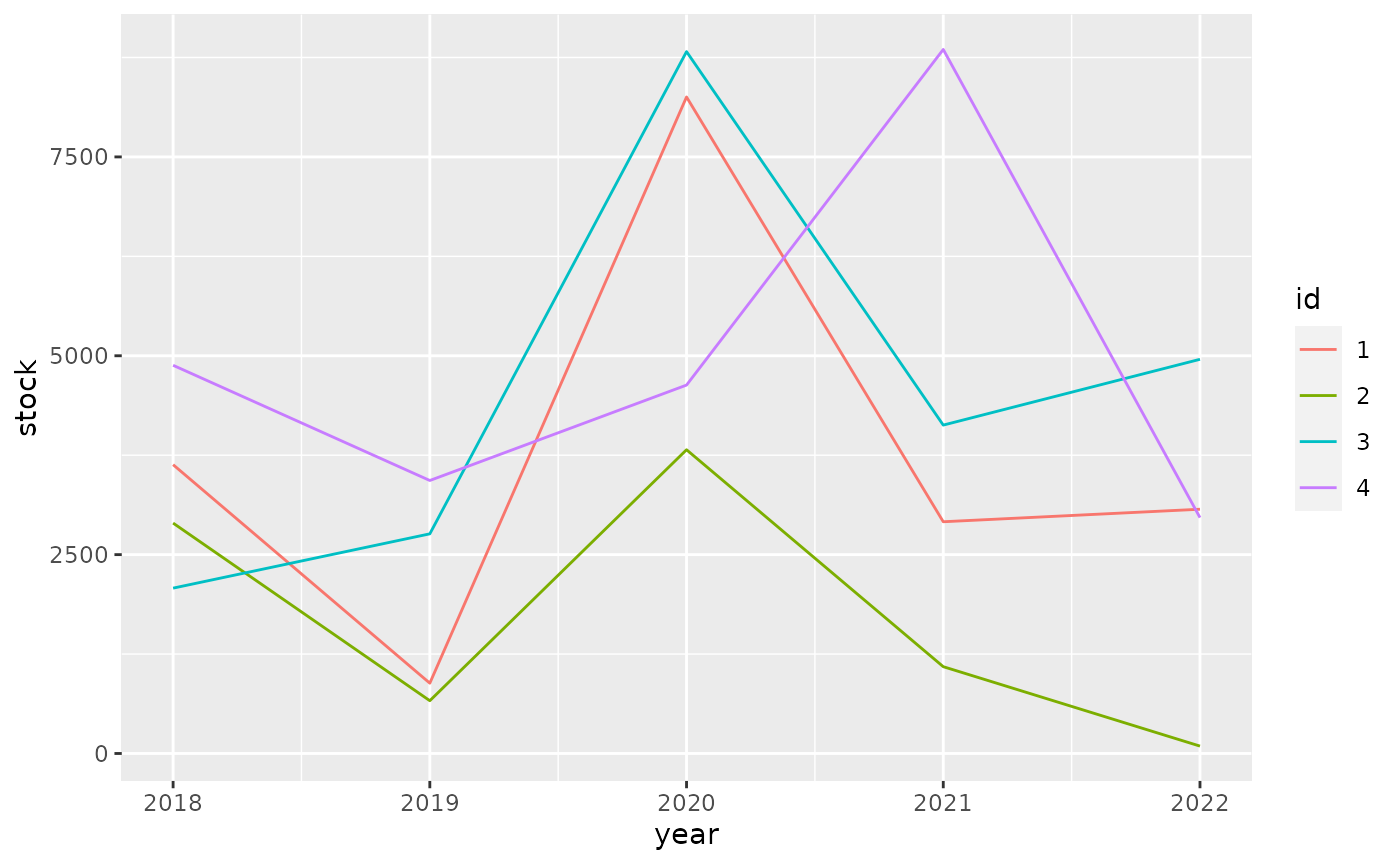
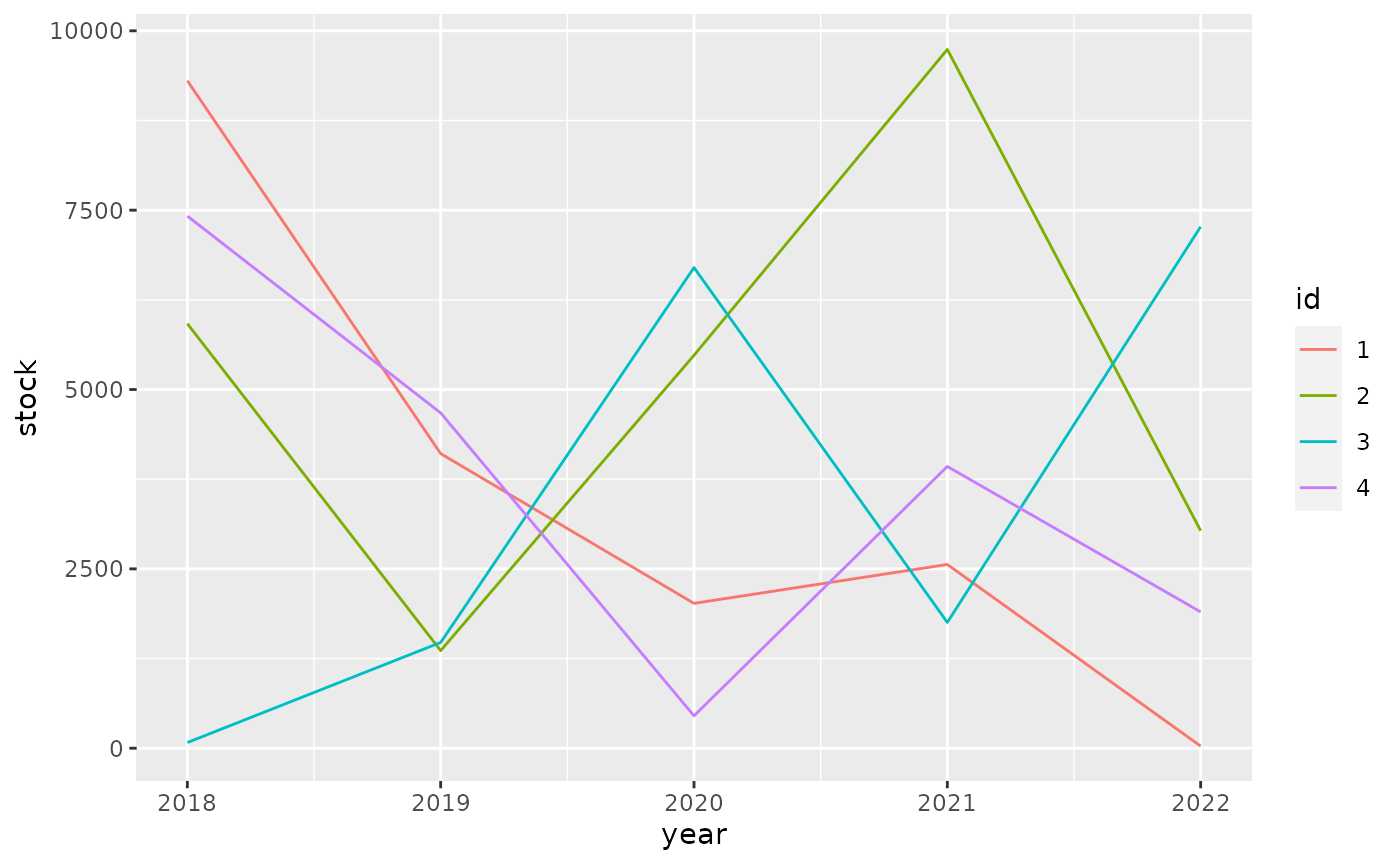
Built site for tibble: 3.0.6.9001@7add45a

diff --git a/dev/articles/formats.html b/dev/articles/formats.html
@@ -221,10 +221,10 @@
 <span class="co">#&gt; # A tibble: 4 x 6</span>
 <span class="co">#&gt;   id       `2018`    `2019`    `2020`    `2021`    `2022`</span>
 <span class="co">#&gt;   &lt;fct&gt; &lt;dbl:fmt&gt; &lt;dbl:fmt&gt; &lt;dbl:fmt&gt; &lt;dbl:fmt&gt; &lt;dbl:fmt&gt;</span>
-<span class="co">#&gt; 1 1     $3,630.84   $883.97 $8,253.53 $2,913.39 $3,070.77</span>
-<span class="co">#&gt; 2 2     $2,896.63   $663.56 $3,818.42 $1,091.33    $92.88</span>
-<span class="co">#&gt; 3 3     $2,078.70 $2,761.41 $8,823.67 $4,128.44 $4,955.50</span>
-<span class="co">#&gt; 4 4     $4,880.32 $3,431.91 $4,631.54 $8,851.06 $2,965.41</span></code></pre></div>
+<span class="co">#&gt; 1 1     $9,304.08 $4,106.59 $2,019.11 $2,561.26    $29.58</span>
+<span class="co">#&gt; 2 2     $5,918.37 $1,360.61 $5,476.98 $9,740.24 $3,031.63</span>
+<span class="co">#&gt; 3 3        $79.08 $1,474.32 $6,699.59 $1,753.73 $7,269.59</span>
+<span class="co">#&gt; 4 4     $7,417.76 $4,673.71   $451.58 $3,927.20 $1,899.89</span></code></pre></div>
 <p>For ggplot2 we need to do <a href="https://github.com/tidyverse/ggplot2/pull/4065" class="external-link">some work</a> to show apply the formatting to the scales.</p>
 <div class="sourceCode" id="cb6"><pre class="downlit sourceCode r">
 <code class="sourceCode R"><span class="kw"><a href="https://rdrr.io/r/base/library.html" class="external-link">library</a></span><span class="op">(</span><span class="va"><a href="https://ggplot2.tidyverse.org" class="external-link">ggplot2</a></span><span class="op">)</span>
@@ -235,10 +235,10 @@
   <span class="fu"><a href="https://ggplot2.tidyverse.org/reference/geom_path.html" class="external-link">geom_line</a></span><span class="op">(</span><span class="op">)</span></code></pre></div>
 <p><img src="formats_files/figure-html/unnamed-chunk-7-1.png" width="700"></p>
 <p>It pays off to specify formatting very early in the process. The diagram below shows the principal stages of data analysis and exploration from “R for data science”.</p>
-<div id="htmlwidget-08a29a80a36423afc7a3" style="width:700px;height:432.632880098888px;" class="DiagrammeR html-widget"></div>
-<script type="application/json" data-for="htmlwidget-08a29a80a36423afc7a3">{"x":{"diagram":"graph TD\n  Import --> Tidy\n  Tidy --> Transform\n  Transform --> Visualize\n  Visualize --> Communicate\n  Visualize --> Model\n  Model -.-> Transform"},"evals":[],"jsHooks":[]}</script><p>The subsequent diagram adds data formats, communication options, and explicit data formatting. The original r4ds transitions are highlighted in bold. There are two principal options where to apply formatting for results: right before communicating them, or right after importing.</p>
-<div id="htmlwidget-506416e5296a19b2f288" style="width:700px;height:432.632880098888px;" class="DiagrammeR html-widget"></div>
-<script type="application/json" data-for="htmlwidget-506416e5296a19b2f288">{"x":{"diagram":"graph TD\n  .csv --> Import\n  API --> Import\n  DBI --> Import\n  dbplyr --> Import\n  Import -.-> Format[Format for analysis]\n  Format -.-> Tidy\n\n  subgraph r4ds\n  Import ==> Tidy\n  Tidy ==> Transform\n  Transform ==> Visualize\n  Visualize ==> Model\n  Model -.-> Transform\n  Visualize ==> Communicate\n  end\n\n  Visualize -.-> FormatComm[Format for communication]\n  FormatComm -.-> Communicate\n\n  FormatComm -- Apply formatting early --> Format\n\n  dbplyr -.-> Tidy\n  dbplyr -.-> Transform\n  dbplyr -.-> Visualize\n\n  Communicate --> gt\n  Communicate --> ggplot2\n  Communicate --> DT\n  Communicate --> plotly"},"evals":[],"jsHooks":[]}</script><p>Applying formatting early in the process gives the added benefit of showing the data in a useful format during the “Tidy”, “Transform”, and “Visualize” stages. For this to be useful, we need to ensure that the formatting options applied early:</p>
+<div id="htmlwidget-3b01a6db6a8cfb7498d4" style="width:700px;height:432.632880098888px;" class="DiagrammeR html-widget"></div>
+<script type="application/json" data-for="htmlwidget-3b01a6db6a8cfb7498d4">{"x":{"diagram":"graph TD\n  Import --> Tidy\n  Tidy --> Transform\n  Transform --> Visualize\n  Visualize --> Communicate\n  Visualize --> Model\n  Model -.-> Transform"},"evals":[],"jsHooks":[]}</script><p>The subsequent diagram adds data formats, communication options, and explicit data formatting. The original r4ds transitions are highlighted in bold. There are two principal options where to apply formatting for results: right before communicating them, or right after importing.</p>
+<div id="htmlwidget-b5639800fd75e163fc80" style="width:700px;height:432.632880098888px;" class="DiagrammeR html-widget"></div>
+<script type="application/json" data-for="htmlwidget-b5639800fd75e163fc80">{"x":{"diagram":"graph TD\n  .csv --> Import\n  API --> Import\n  DBI --> Import\n  dbplyr --> Import\n  Import -.-> Format[Format for analysis]\n  Format -.-> Tidy\n\n  subgraph r4ds\n  Import ==> Tidy\n  Tidy ==> Transform\n  Transform ==> Visualize\n  Visualize ==> Model\n  Model -.-> Transform\n  Visualize ==> Communicate\n  end\n\n  Visualize -.-> FormatComm[Format for communication]\n  FormatComm -.-> Communicate\n\n  FormatComm -- Apply formatting early --> Format\n\n  dbplyr -.-> Tidy\n  dbplyr -.-> Transform\n  dbplyr -.-> Visualize\n\n  Communicate --> gt\n  Communicate --> ggplot2\n  Communicate --> DT\n  Communicate --> plotly"},"evals":[],"jsHooks":[]}</script><p>Applying formatting early in the process gives the added benefit of showing the data in a useful format during the “Tidy”, “Transform”, and “Visualize” stages. For this to be useful, we need to ensure that the formatting options applied early:</p>
 <ul>
 <li>give a good user experience for analysis
 <ul>

diff --git a/dev/reference/lst.html b/dev/reference/lst.html
@@ -56,11 +56,12 @@
 
 
 <meta property="og:title" content="Build a list — lst" />
-<meta property="og:description" content="
-lst() constructs a list, similar to base::list(), but with some of the
+<meta property="og:description" content="lst() constructs a list, similar to base::list(), but with some of the
 same features as tibble(). lst() builds components sequentially. When
 defining a component, you can refer to components created earlier in the
-call. lst() also generates missing names automatically." />
+call. lst() also generates missing names automatically.
+See rlang::list2() for a simpler and faster alternative without tibble's
+evaluation and auto-name semantics." />
 <meta property="og:image" content="https://tibble.tidyverse.org/logo.svg" />
 <meta name="twitter:card" content="summary" />
 
@@ -200,11 +201,12 @@ call. lst() also generates missing names automatically." />
     </div>
 
     <div class="ref-description">
-    <p><a href='https://lifecycle.r-lib.org/articles/stages.html#questioning'><img src='figures/lifecycle-questioning.svg' alt='[Questioning]' /></a></p>
-<p><code>lst()</code> constructs a list, similar to <code><a href='https://rdrr.io/r/base/list.html'>base::list()</a></code>, but with some of the
+    <p><code>lst()</code> constructs a list, similar to <code><a href='https://rdrr.io/r/base/list.html'>base::list()</a></code>, but with some of the
 same features as <code><a href='tibble.html'>tibble()</a></code>. <code>lst()</code> builds components sequentially. When
 defining a component, you can refer to components created earlier in the
 call. <code>lst()</code> also generates missing names automatically.</p>
+<p>See <code><a href='https://rlang.r-lib.org/reference/list2.html'>rlang::list2()</a></code> for a simpler and faster alternative without tibble's
+evaluation and auto-name semantics.</p>
     </div>
 
     <pre class="usage"><span class='fu'>lst</span><span class='op'>(</span><span class='va'>...</span><span class='op'>)</span></pre>
@@ -229,15 +231,6 @@ is not available.</p></td>
     <h2 class="hasAnchor" id="value"><a class="anchor" href="#value"></a>Value</h2>
 
     <p>A named list.</p>
-    <h2 class="hasAnchor" id="life-cycle"><a class="anchor" href="#life-cycle"></a>Life cycle</h2>
-
-    
-
-<p>The <code>lst()</code> function is in the questioning stage.
-It is essentially
-<code><a href='https://rlang.r-lib.org/reference/list2.html'>rlang::list2()</a></code>, but with a couple features copied from <code><a href='tibble.html'>tibble()</a></code>. It's not
-clear that a function for creating lists belongs in the tibble package.
-Consider using <code><a href='https://rlang.r-lib.org/reference/list2.html'>rlang::list2()</a></code> instead.</p>
 
     <h2 class="hasAnchor" id="examples"><a class="anchor" href="#examples"></a>Examples</h2>
     <pre class="examples"><div class='input'><span class='co'># the value of n can be used immediately in the definition of x</span>

diff --git a/dev/reference/as_tibble.html b/dev/reference/as_tibble.html
@@ -56,8 +56,7 @@
 
 
 <meta property="og:title" content="Coerce lists, matrices, and more to data frames — as_tibble" />
-<meta property="og:description" content="
-as_tibble() turns an existing object, such as a data frame or
+<meta property="og:description" content="as_tibble() turns an existing object, such as a data frame or
 matrix, into a so-called tibble, a data frame with class tbl_df. This is
 in contrast with tibble(), which builds a tibble from individual columns.
 as_tibble() is to tibble() as base::as.data.frame() is to
@@ -214,8 +213,7 @@ as_tibble_col() converts a vector to a tibble with one column." />
     </div>
 
     <div class="ref-description">
-    <p><a href='https://lifecycle.r-lib.org/articles/stages.html#maturing'><img src='figures/lifecycle-maturing.svg' alt='[Maturing]' /></a></p>
-<p><code>as_tibble()</code> turns an existing object, such as a data frame or
+    <p><code>as_tibble()</code> turns an existing object, such as a data frame or
 matrix, into a so-called tibble, a data frame with class <code><a href='tbl_df-class.html'>tbl_df</a></code>. This is
 in contrast with <code><a href='tibble.html'>tibble()</a></code>, which builds a tibble from individual columns.
 <code>as_tibble()</code> is to <code><a href='tibble.html'>tibble()</a></code> as <code><a href='https://rdrr.io/r/base/as.data.frame.html'>base::as.data.frame()</a></code> is to
@@ -355,7 +353,7 @@ package's <code><a href='https://rdrr.io/r/base/ns-hooks.html'>.onLoad()</a></co
     
 
 <p>Using <code>as_tibble()</code> for vectors is superseded as of version 3.0.0,
-prefer the more expressive maturing <code>as_tibble_row()</code> and
+prefer the more expressive <code>as_tibble_row()</code> and
 <code>as_tibble_col()</code> variants for new code.</p>
     <h2 class="hasAnchor" id="see-also"><a class="anchor" href="#see-also"></a>See also</h2>
 

diff --git a/dev/reference/frame_matrix.html b/dev/reference/frame_matrix.html
@@ -56,8 +56,7 @@
 
 
 <meta property="og:title" content="Row-wise matrix creation — frame_matrix" />
-<meta property="og:description" content="
-Create matrices laying out the data in rows, similar to
+<meta property="og:description" content="Create matrices laying out the data in rows, similar to
 matrix(..., byrow = TRUE), with a nicer-to-read syntax.
 This is useful for small matrices, e.g. covariance matrices, where readability
 is important. The syntax is inspired by tribble()." />
@@ -200,8 +199,7 @@ is important. The syntax is inspired by tribble()." />
     </div>
 
     <div class="ref-description">
-    <p><a href='https://lifecycle.r-lib.org/articles/stages.html#maturing'><img src='figures/lifecycle-maturing.svg' alt='[Maturing]' /></a></p>
-<p>Create matrices laying out the data in rows, similar to
+    <p>Create matrices laying out the data in rows, similar to
 <code><a href='https://rdrr.io/r/base/matrix.html'>matrix(..., byrow = TRUE)</a></code>, with a nicer-to-read syntax.
 This is useful for small matrices, e.g. covariance matrices, where readability
 is important. The syntax is inspired by <code><a href='tribble.html'>tribble()</a></code>.</p>

diff --git a/dev/reference/tribble.html b/dev/reference/tribble.html
@@ -56,8 +56,7 @@
 
 
 <meta property="og:title" content="Row-wise tibble creation — tribble" />
-<meta property="og:description" content="
-Create tibbles using an easier to read row-by-row layout.
+<meta property="og:description" content="Create tibbles using an easier to read row-by-row layout.
 This is useful for small tables of data where readability is
 important.  Please see tibble-package for a general introduction." />
 <meta property="og:image" content="https://tibble.tidyverse.org/logo.svg" />
@@ -199,8 +198,7 @@ important.  Please see tibble-package for a general introduction." />
     </div>
 
     <div class="ref-description">
-    <p><a href='https://lifecycle.r-lib.org/articles/stages.html#maturing'><img src='figures/lifecycle-maturing.svg' alt='[Maturing]' /></a></p>
-<p>Create <a href='tibble.html'>tibble</a>s using an easier to read row-by-row layout.
+    <p>Create <a href='tibble.html'>tibble</a>s using an easier to read row-by-row layout.
 This is useful for small tables of data where readability is
 important.  Please see <a href='tibble-package.html'>tibble-package</a> for a general introduction.</p>
     </div>

diff --git a/dev/reference/enframe.html b/dev/reference/enframe.html
@@ -56,8 +56,7 @@
 
 
 <meta property="og:title" content="Converting vectors to data frames, and vice versa — enframe" />
-<meta property="og:description" content="
-enframe() converts named atomic vectors or lists to one- or two-column
+<meta property="og:description" content="enframe() converts named atomic vectors or lists to one- or two-column
 data frames.
 For a list, the result will be a nested tibble with a column of type list.
 For unnamed vectors, the natural sequence is used as name column.
@@ -203,8 +202,7 @@ If the input has only one column, an unnamed vector is returned." />
     </div>
 
     <div class="ref-description">
-    <p><a href='https://lifecycle.r-lib.org/articles/stages.html#maturing'><img src='figures/lifecycle-maturing.svg' alt='[Maturing]' /></a></p>
-<p><code>enframe()</code> converts named atomic vectors or lists to one- or two-column
+    <p><code>enframe()</code> converts named atomic vectors or lists to one- or two-column
 data frames.
 For a list, the result will be a nested tibble with a column of type <code>list</code>.
 For unnamed vectors, the natural sequence is used as name column.</p>

diff --git a/dev/reference/new_tibble.html b/dev/reference/new_tibble.html
@@ -56,8 +56,7 @@
 
 
 <meta property="og:title" content="Tibble constructor and validator — new_tibble" />
-<meta property="og:description" content="
-Creates or validates a subclass of a tibble.
+<meta property="og:description" content="Creates or validates a subclass of a tibble.
 These function is mostly useful for package authors that implement subclasses
 of a tibble, like sf or tsibble.
 new_tibble() creates a new object as a subclass of tbl_df, tbl and data.frame.
@@ -204,8 +203,7 @@ runs without raising an error." />
     </div>
 
     <div class="ref-description">
-    <p><a href='https://lifecycle.r-lib.org/articles/stages.html#maturing'><img src='figures/lifecycle-maturing.svg' alt='[Maturing]' /></a></p>
-<p>Creates or validates a subclass of a tibble.
+    <p>Creates or validates a subclass of a tibble.
 These function is mostly useful for package authors that implement subclasses
 of a tibble, like <span class="pkg">sf</span> or <span class="pkg">tsibble</span>.</p>
 <p><code>new_tibble()</code> creates a new object as a subclass of <code>tbl_df</code>, <code>tbl</code> and <code>data.frame</code>.

diff --git a/dev/articles/types.html b/dev/articles/types.html
@@ -352,7 +352,7 @@
 #&gt; $ factor        &lt;fct&gt; A
 #&gt; $ ordered       &lt;ord&gt; a
 #&gt; $ Date          &lt;date&gt; 2021-02-23
-#&gt; $ POSIXt        &lt;dttm&gt; 2021-02-23 04:54:03
+#&gt; $ POSIXt        &lt;dttm&gt; 2021-02-23 05:01:46
 #&gt; $ difftime      &lt;drtn&gt; 1 secs
 #&gt; $ hms           &lt;time&gt; 00:00:01
 #&gt; $ integer64     &lt;int64&gt; 10000000000
@@ -382,7 +382,7 @@
 <span class="co">#&gt;             "sym"</span>
 <span class="co">#&gt;         }, typeof(x))</span>
 <span class="co">#&gt; }</span>
-<span class="co">#&gt; &lt;bytecode: 0x559aebea37f8&gt;</span>
+<span class="co">#&gt; &lt;bytecode: 0x55e17cd33888&gt;</span>
 <span class="co">#&gt; &lt;environment: namespace:pillar&gt;</span></code></pre></div>
 </div>
   </div>
